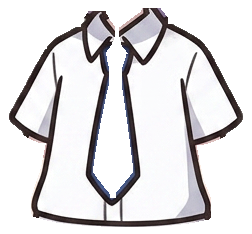
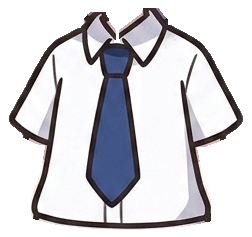
Fix the shirt-and-tie: the tie was being read as line art too
Median luminance 59, under DARK's 115, so 57% of it was dropped and the tie
rendered as an outline. Same failure as the gakuran and the sailor collar.

Three occurrences is enough to stop waiting for them to be spotted. Audited
all 21 renders by measuring how much of each one's *coloured* dark area —
dark, but too chromatic to be ink — survives into the layer. It found these
three and nothing else. The other low scores are shading that falls on the
character, such as hair beneath a brim, and is excluded correctly; all six
were checked by eye and render properly.

diff --git a/web/index.html b/web/index.html
@@ -16,7 +16,7 @@
 <meta name="apple-mobile-web-app-title" content="Moodmate">
 <link rel="manifest" href="manifest.webmanifest">
 <link rel="apple-touch-icon" href="assets/appicon-192.png">
-<link rel="stylesheet" href="styles.css?v=380677f20a">
+<link rel="stylesheet" href="styles.css?v=d87ebda41b">
 <script>
   /* Runs before first paint, so a chosen theme doesn't arrive a frame late as
      a white flash. app.js reads the same key and owns it from there. */
@@ -159,7 +159,7 @@
 
 <div class="lightbox" id="lightbox" hidden></div>
 
-<script src="i18n.js?v=380677f20a"></script>
-<script src="app.js?v=380677f20a"></script>
+<script src="i18n.js?v=d87ebda41b"></script>
+<script src="app.js?v=d87ebda41b"></script>
 </body>
 </html>

diff --git a/web/sw.js b/web/sw.js
@@ -5,7 +5,7 @@
 // Stamped by export_web.py from a hash of the built assets. It must change
 // whenever any asset does, because the image rule below is cache-first and a
 // cache keyed by a constant name is never invalidated.
-const CACHE = "moodmate-380677f20a";
+const CACHE = "moodmate-d87ebda41b";
 const SHELL = [
   ".", "index.html", "styles.css", "app.js",
   "manifest.webmanifest", "assets/items.json",

diff --git a/process_item.py b/process_item.py
@@ -476,7 +476,15 @@ def main(render_path, name, master_name="base_char_master.png", dark_override=No
 # still need an override; what matters is whether any *fill* falls below the
 # threshold, not how dark the garment is overall. 55 sits clear of the real line
 # art, whose median is 29.
-DARK_OVERRIDES = {"male_gakuran": 55, "sailor": 55}
+#
+# The navy tie is the same failure a third time: median 59, kept 43%, and the
+# figure only 23.2% below the threshold so the loop stays quiet. Three items in,
+# the pattern is clear enough to check for rather than wait for: measure what
+# share of each render's *coloured* dark area (dark, but too chromatic to be
+# ink) survives into the layer. Auditing all 21 that way found these three and
+# nothing else — the rest of the low scores are shading that falls on the
+# character, such as hair under a brim, and is excluded correctly.
+DARK_OVERRIDES = {"male_gakuran": 55, "sailor": 55, "male_tie_shirt": 55}
 
 
 if __name__ == "__main__":
